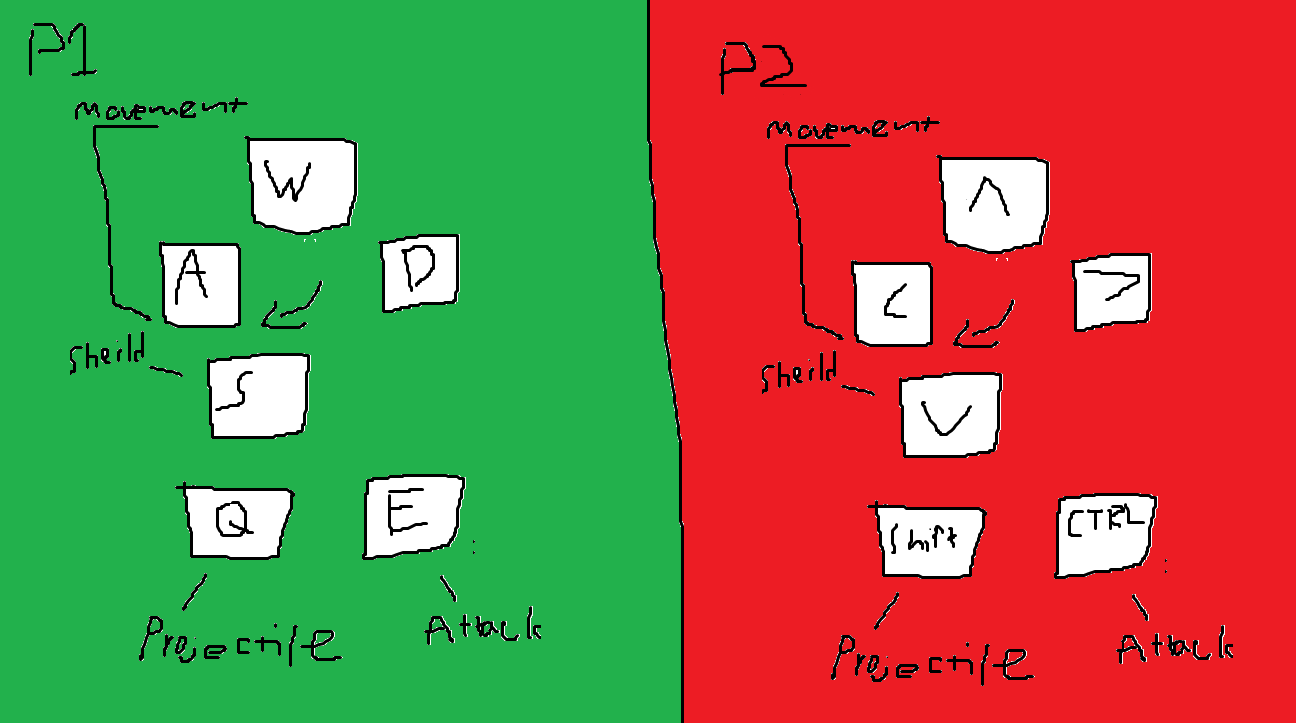
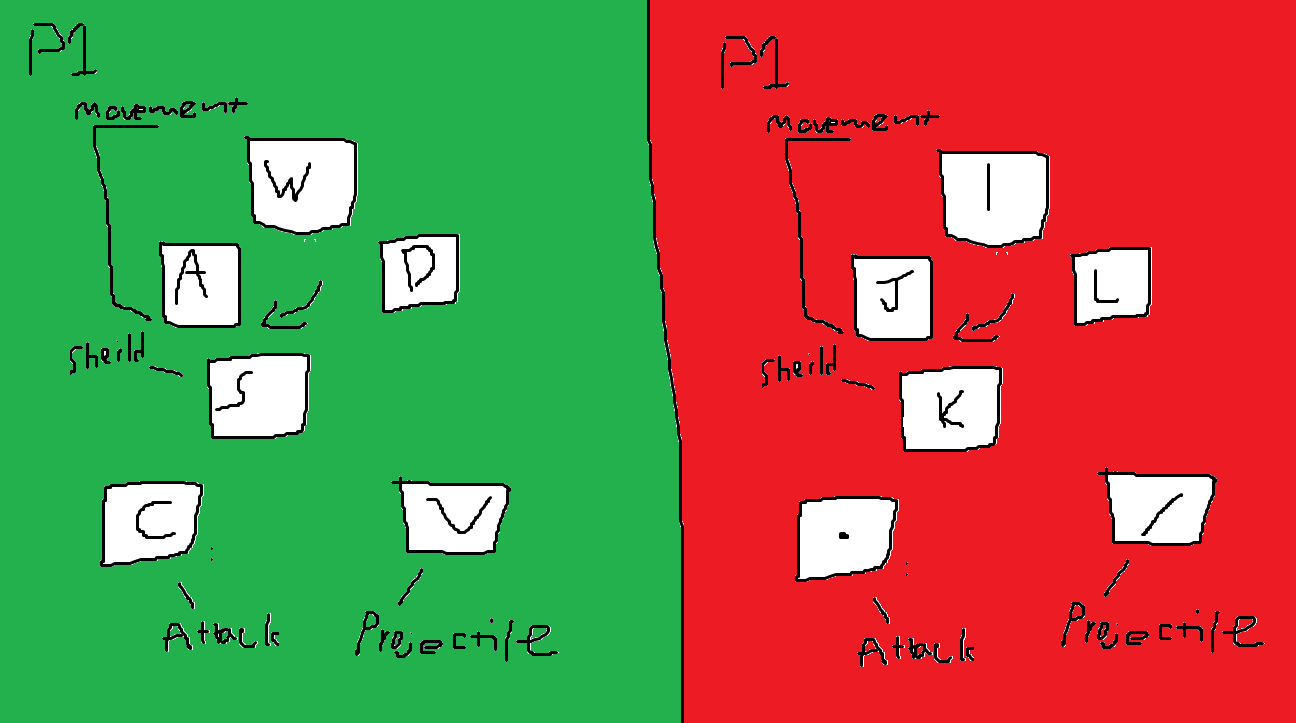
Change Controls
changed controls for players

diff --git a/Assets/scripts/playerControllerP2.cs b/Assets/scripts/playerControllerP2.cs
@@ -38,28 +38,28 @@ public class playerControllerP2 : MonoBehaviour
     {
         horizontal = Input.GetAxisRaw("HorizontalP2") * playerSpeed * Time.deltaTime;
         transform.Translate(Vector3.right * horizontal);
-        if (Input.GetKeyDown("right ctrl") && shield != true)
+        if (Input.GetKeyDown(KeyCode.Period) && shield != true)
         {
             weapon.GetComponent<attack1>().whack();
         }
-        if (Input.GetKeyDown("down"))
+        if (Input.GetKeyDown(KeyCode.K))
         {
             shield = true;
             playerSpeed = 2f;
         }
-        if (Input.GetKeyUp("down"))
+        if (Input.GetKeyUp(KeyCode.K))
         {
             weapon.SetActive(false);
             playerSpeed = 6f;
             shield = false;
         }
-        if (Input.GetKeyDown("up") && isGrounded == true)
+        if (Input.GetKeyDown(KeyCode.I) && isGrounded == true)
         {
             timer = 0f;
             bigJump = true;
             rb.AddForce(jump * jumpPower, ForceMode.Impulse);
         }
-        else if (bigJump == true && Input.GetKey("up"))
+        else if (bigJump == true && Input.GetKey(KeyCode.I))
         {
             timer += Time.deltaTime;
             if (timer > 0.15f)
@@ -85,7 +85,7 @@ public class playerControllerP2 : MonoBehaviour
         {
             weapon.GetComponent<attack1>().direction = -1;
         }
-        if(Input.GetKey("right shift") && !shield)
+        if(Input.GetKey(KeyCode.Slash) && !shield)
         { 
             projectile.GetComponent<projectileController>().Throw();
         }

diff --git a/Assets/scripts/playerControllerP1.cs b/Assets/scripts/playerControllerP1.cs
@@ -39,7 +39,7 @@ public class playerControllerP1 : MonoBehaviour
     {
         horizontal = Input.GetAxisRaw("HorizontalP1") * playerSpeed * Time.deltaTime;
         transform.Translate(Vector3.right * horizontal);
-        if (Input.GetKeyDown("e") && shield != true)
+        if (Input.GetKeyDown(KeyCode.C) && shield != true)
         {
             weapon.GetComponent<attack1>().whack();
         }
@@ -48,19 +48,19 @@ public class playerControllerP1 : MonoBehaviour
             shield = true;
             playerSpeed = 2f;
         }
-        if (Input.GetKeyUp("s"))
+        if (Input.GetKeyUp(KeyCode.S))
         {
             shield = false;
             weapon.SetActive(false);
             playerSpeed = 6f;
         }
-        if (Input.GetKeyDown("w") && isGrounded == true)
+        if (Input.GetKeyDown(KeyCode.W) && isGrounded == true)
         {
             timer = 0f;
             bigJump = true;
             rb.AddForce(jump * jumpPower, ForceMode.Impulse);
         }
-        else if (bigJump == true && Input.GetKey("w"))
+        else if (bigJump == true && Input.GetKey(KeyCode.W))
         {
             timer += Time.deltaTime;
             if (timer > 0.15f)
@@ -86,7 +86,7 @@ public class playerControllerP1 : MonoBehaviour
         {
             weapon.GetComponent<attack1>().direction = -1;
         }
-        if (Input.GetKeyDown("q") && !shield)
+        if (Input.GetKeyDown(KeyCode.V) && !shield)
         {
             projectile.GetComponent<projectileController>().Throw();
         }
